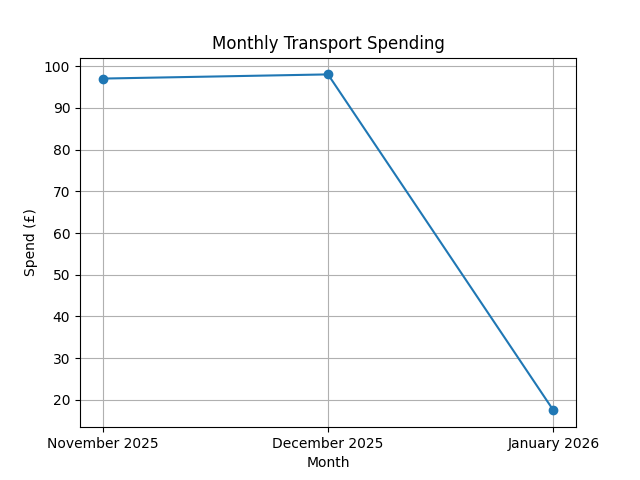
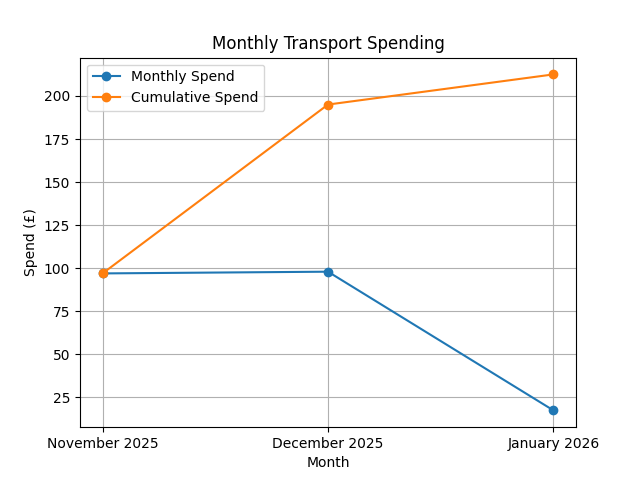
added cumulative data func and cumulative spend to the graph

diff --git a/analyse_spend.py b/analyse_spend.py
@@ -128,14 +128,18 @@ def graph_data(data):
     return months, spends
 print(graph_data(tot_dict))
 
-def cumulative_total(data):
+def cumulative_data(data):
     if data == {}:
         return 0
+    months = []
+    spends = []
     total = 0
-    for charge in data.values():
-        total += charge
-    return total
-print(cumulative_total(tot_dict))
+    for month,spend in sorted(data.items()):
+        total += spend
+        months.append(month)
+        spends.append(total)
+    return months,spends
+print(cumulative_data(tot_dict))
 
 def summary_report(data):
     summary = {"average": ave_monthly(data), "highest_month": highest_spend_month(data)[0], "lowest_month": lowest_spend_month(data)[0],
@@ -147,8 +151,11 @@ def plot_spending(data):
     months, spends = graph_data(data)
 
     labels = [month.strftime("%B %Y") for month in months]
+    cumu_spends = cumulative_data(data)[1]
 
-    plt.plot(labels,spends,marker='o')
+    plt.plot(labels,spends,marker='o',label='Monthly Spend')
+    plt.plot(labels,cumu_spends,marker='o',label='Cumulative Spend')
+    plt.legend()
     plt.title("Monthly Transport Spending")
     plt.xlabel("Month")
     plt.ylabel("Spend (£)")
